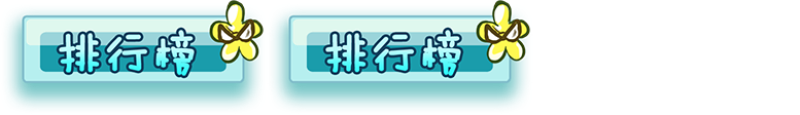
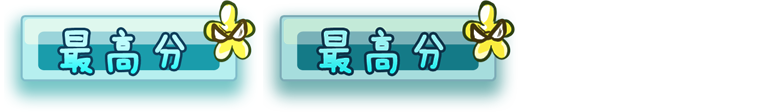
更改两张背景图片 删除了information activity的返回按钮

Changed region(s): [[0.0309, 0.0, 0.6795, 0.6964], [0.0, 0.1607, 0.0309, 0.2143]]

diff --git a/src/com/example/newsnake/InformationPageActivity.java b/src/com/example/newsnake/InformationPageActivity.java
@@ -9,11 +9,8 @@ import org.andengine.engine.options.EngineOptions;
 import org.andengine.engine.options.ScreenOrientation;
 import org.andengine.engine.options.resolutionpolicy.RatioResolutionPolicy;
 import org.andengine.entity.scene.Scene;
-import org.andengine.entity.scene.background.RepeatingSpriteBackground;
 import org.andengine.entity.scene.background.SpriteBackground;
-import org.andengine.entity.sprite.ButtonSprite;
 import org.andengine.entity.sprite.Sprite;
-import org.andengine.entity.sprite.ButtonSprite.OnClickListener;
 import org.andengine.entity.text.Text;
 import org.andengine.entity.util.FPSLogger;
 import org.andengine.opengl.font.Font;
@@ -22,103 +19,109 @@ import org.andengine.opengl.texture.ITexture;
 import org.andengine.opengl.texture.TextureOptions;
 import org.andengine.opengl.texture.atlas.bitmap.BitmapTextureAtlas;
 import org.andengine.opengl.texture.atlas.bitmap.BitmapTextureAtlasTextureRegionFactory;
-import org.andengine.opengl.texture.atlas.bitmap.source.AssetBitmapTextureAtlasSource;
 import org.andengine.opengl.texture.region.TextureRegion;
 import org.andengine.opengl.texture.region.TiledTextureRegion;
 import org.andengine.ui.activity.SimpleBaseGameActivity;
 
-import android.content.Intent;
 import android.graphics.Color;
 
 public class InformationPageActivity extends SimpleBaseGameActivity {
 	private TextureRegion mBackground;
-	
+
 	private BitmapTextureAtlas mTextureAtlas;
 	private BitmapTextureAtlas mButtonAtlas;
-	
+
 	private TiledTextureRegion mButton;
-	
+
 	private Font mFont;
-	
+
 	private Scene scene;
-	
-	
+
 	private static final int CAMERA_WIDTH = 800;
 	private static final int CAMERA_HEIGHT = 480;
+
 	@Override
 	public EngineOptions onCreateEngineOptions() {
 		// TODO Auto-generated method stub
-		Camera camera = new Camera(0, 0, CAMERA_WIDTH,CAMERA_HEIGHT);
-		final EngineOptions engineOptions = new EngineOptions(true,ScreenOrientation.LANDSCAPE_FIXED, new RatioResolutionPolicy(CAMERA_WIDTH,CAMERA_HEIGHT),camera);
+		Camera camera = new Camera(0, 0, CAMERA_WIDTH, CAMERA_HEIGHT);
+		final EngineOptions engineOptions = new EngineOptions(true,
+				ScreenOrientation.LANDSCAPE_FIXED, new RatioResolutionPolicy(
+						CAMERA_WIDTH, CAMERA_HEIGHT), camera);
 		return engineOptions;
 	}
 
 	@Override
 	protected void onCreateResources() {
-		
-		mTextureAtlas=new BitmapTextureAtlas(getTextureManager(), 1024, 512, TextureOptions.BILINEAR_PREMULTIPLYALPHA);
-		mButtonAtlas=new BitmapTextureAtlas(getTextureManager(), 128, 128,TextureOptions.BILINEAR_PREMULTIPLYALPHA);
-		
-		mBackground=BitmapTextureAtlasTextureRegionFactory.createFromAsset(mTextureAtlas, this, "image/topgrade.png",0,0);	
-		mButton=BitmapTextureAtlasTextureRegionFactory.createTiledFromAsset(mButtonAtlas, this, "image/back.png", 0, 0,1,1);
-		
+
+		mTextureAtlas = new BitmapTextureAtlas(getTextureManager(), 1024, 512,
+				TextureOptions.BILINEAR_PREMULTIPLYALPHA);
+		mButtonAtlas = new BitmapTextureAtlas(getTextureManager(), 128, 128,
+				TextureOptions.BILINEAR_PREMULTIPLYALPHA);
+
+		mBackground = BitmapTextureAtlasTextureRegionFactory.createFromAsset(
+				mTextureAtlas, this, "image/topgrade.png", 0, 0);
+		mButton = BitmapTextureAtlasTextureRegionFactory.createTiledFromAsset(
+				mButtonAtlas, this, "image/back.png", 0, 0, 1, 1);
+
 		mTextureAtlas.load();
 		mButtonAtlas.load();
-		
-		
+
 		FontFactory.setAssetBasePath("font/");
-		final ITexture droidFontTexture = new BitmapTextureAtlas(this.getTextureManager(), 256, 256, TextureOptions.BILINEAR);
-		this.mFont = FontFactory.createFromAsset(this.getFontManager(), droidFontTexture, this.getAssets(), "Droid.ttf", 48, true, Color.BLACK);
+		final ITexture droidFontTexture = new BitmapTextureAtlas(
+				this.getTextureManager(), 256, 256, TextureOptions.BILINEAR);
+		this.mFont = FontFactory.createFromAsset(this.getFontManager(),
+				droidFontTexture, this.getAssets(), "Droid.ttf", 60, true,
+				Color.BLACK);
 		this.mFont.load();
 
 		// TODO Auto-generated method stub
-		
+
 	}
 
 	@Override
 	protected Scene onCreateScene() {
 		this.mEngine.registerUpdateHandler(new FPSLogger());
-		scene=new Scene();
-		final SpriteBackground mainSceneBackground = new SpriteBackground(new Sprite(0, 0, mBackground,this.getVertexBufferObjectManager()));
+		scene = new Scene();
+		final SpriteBackground mainSceneBackground = new SpriteBackground(
+				new Sprite(0, 0, mBackground,
+						this.getVertexBufferObjectManager()));
 		scene.setBackground(mainSceneBackground);
-		
+
 		int highestGrade = 0;
 		BufferedInputStream Bufferedinput;
 		try {
-			Bufferedinput = new BufferedInputStream(
-					openFileInput("Grade.data"));
-			DataInputStream Datainput = new DataInputStream(
-					Bufferedinput);
+			Bufferedinput = new BufferedInputStream(openFileInput("Grade.data"));
+			DataInputStream Datainput = new DataInputStream(Bufferedinput);
 			highestGrade = Datainput.readInt();
 			Datainput.close();
 		} catch (IOException e) {
 		}
 
-		
-		final Text endGrade = new Text(0, 0, this.mFont, "","adsfdsfads".length(), this.getVertexBufferObjectManager());
-		float endGradeX = 250 - endGrade.getWidth() / 2;
-		float endGradeY = 220 - endGrade.getHeight() / 2;
+		final Text endGrade = new Text(0, 0, this.mFont, "", "XXXXX".length(),
+				this.getVertexBufferObjectManager());
+		float endGradeX = 300 - endGrade.getWidth() / 2;
+		float endGradeY = 240 - endGrade.getHeight() / 2;
 		endGrade.setPosition(endGradeX, endGradeY);
-		endGrade.setText("adsfdsafds");
 
-		
-		ButtonSprite BackSprite=new ButtonSprite(0, 380, mButton, getVertexBufferObjectManager());
-		BackSprite.setOnClickListener(new OnClickListener() {
-			
-			public void onClick(ButtonSprite arg0, float arg1, float arg2) {
-				// TODO Auto-generated method stub
-
-				InformationPageActivity.this.finish();
-			}
-		});
-		scene.registerTouchArea(BackSprite);
-		
-
+		endGrade.setText("" + highestGrade);
 		scene.attachChild(endGrade);
-		scene.attachChild(BackSprite);
+
+		// ButtonSprite BackSprite = new ButtonSprite(0, 380, mButton,
+		// getVertexBufferObjectManager());
+		// BackSprite.setOnClickListener(new OnClickListener() {
+		//
+		// public void onClick(ButtonSprite arg0, float arg1, float arg2) {
+		// // TODO Auto-generated method stub
+		//
+		// InformationPageActivity.this.finish();
+		// }
+		// });
+		// scene.registerTouchArea(BackSprite);
+		//
+
+		// scene.attachChild(BackSprite);
 		// TODO Auto-generated method stub
 		return scene;
 	}
 
 }
-

diff --git a/src/com/example/newsnake/StartpageActivity.java b/src/com/example/newsnake/StartpageActivity.java
@@ -78,6 +78,7 @@ public class StartpageActivity extends SimpleBaseGameActivity {
 		final Scene scene=new Scene();
 		final SpriteBackground mainSceneBackground = new SpriteBackground(new Sprite(0, 0, mGrassBackground,this.getVertexBufferObjectManager()));
 		scene.setBackground(mainSceneBackground);
+		scene.setTouchAreaBindingOnActionDownEnabled(true);
 		
 		Sprite snakeSprite=new Sprite(75, 0, mSnake, getVertexBufferObjectManager());
 
@@ -106,6 +107,7 @@ public class StartpageActivity extends SimpleBaseGameActivity {
 		});
 		scene.registerTouchArea(StartSprite);
 		scene.registerTouchArea(TopSprite);
+		scene.registerTouchArea(InformationSprite);
 		
 		scene.attachChild(snakeSprite);
 		scene.attachChild(TopSprite);
